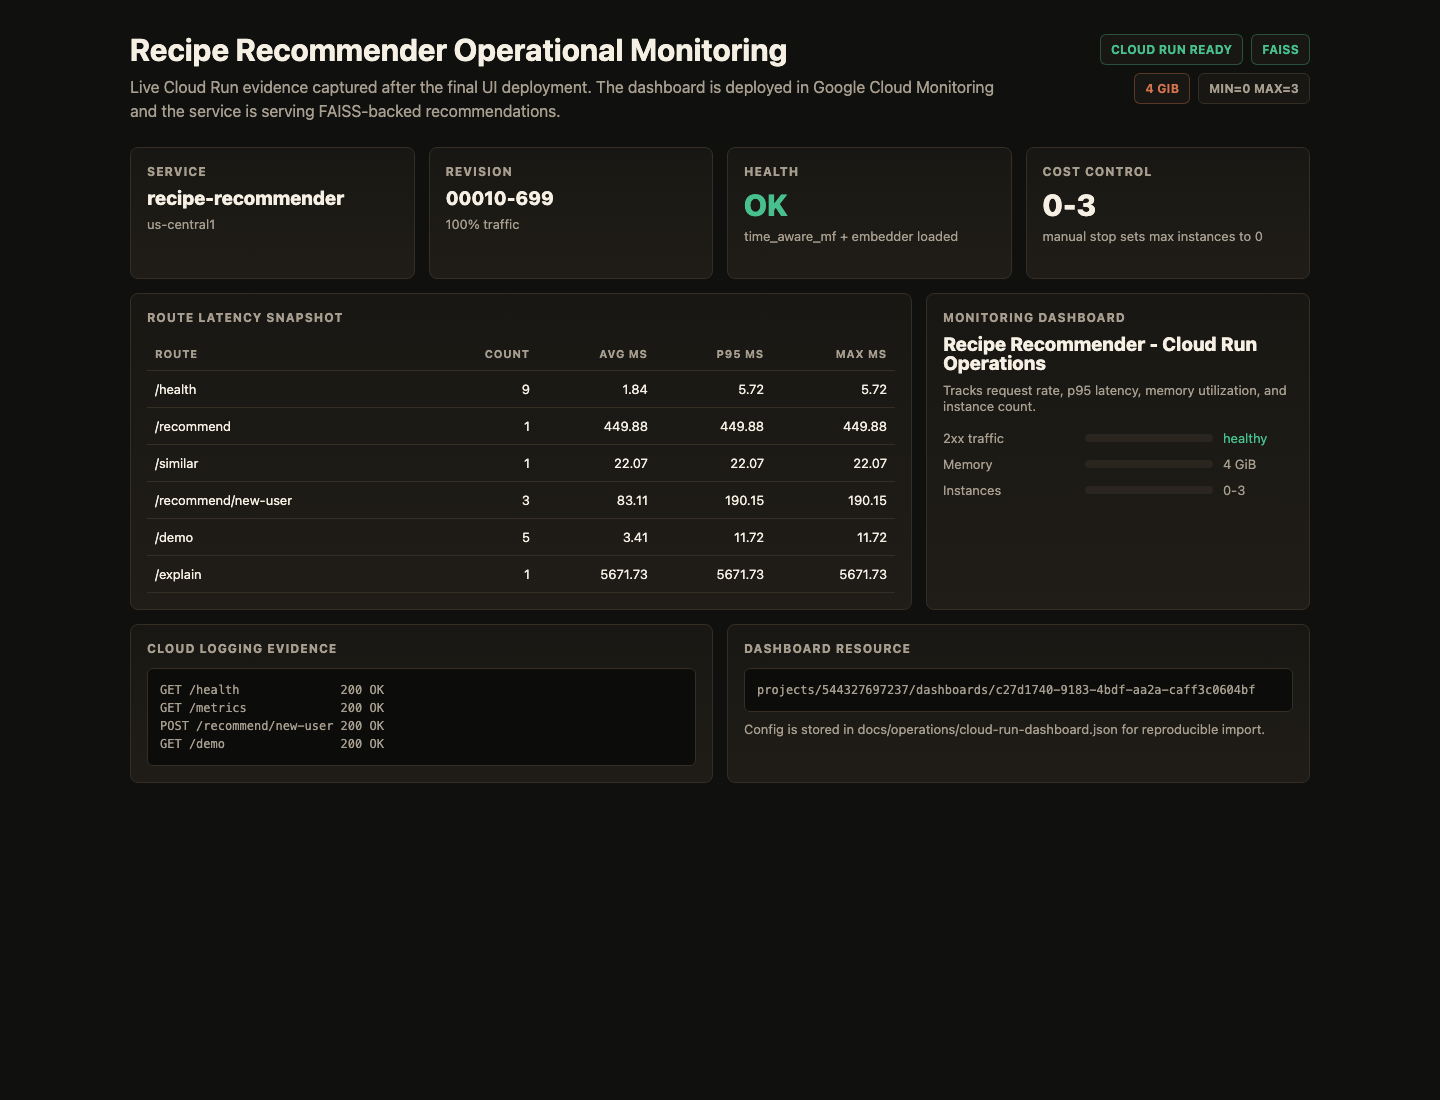
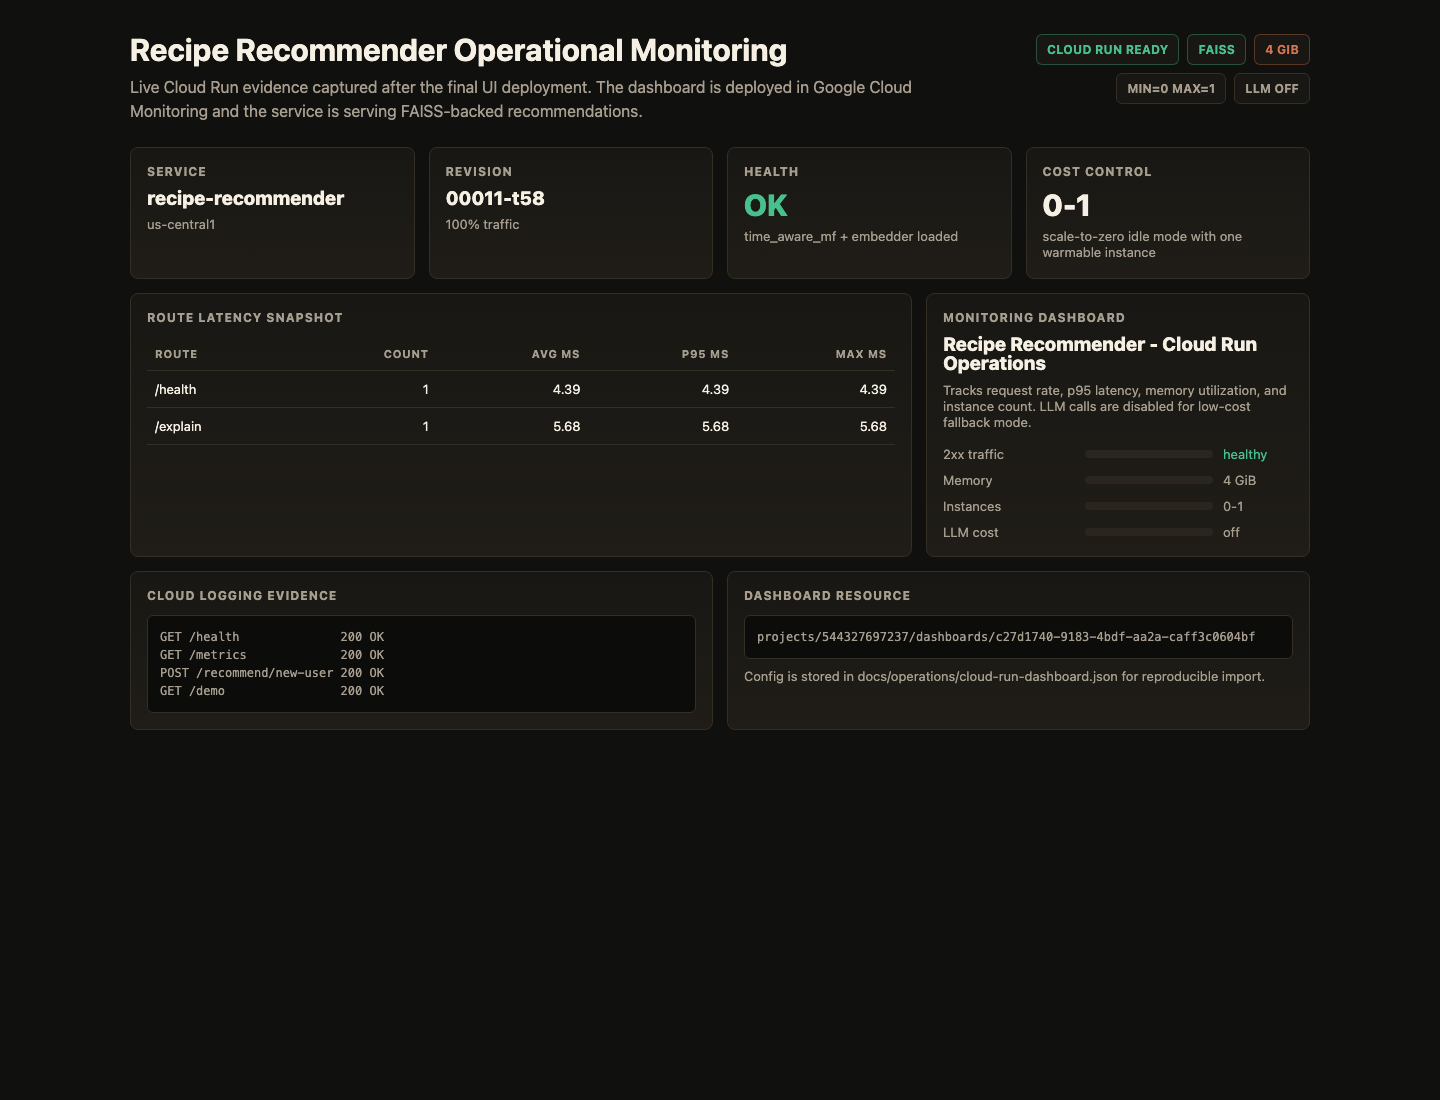
chore: switch public demo to low-cost fallback mode [skip ci]

diff --git a/docs/operations/monitoring-evidence.html b/docs/operations/monitoring-evidence.html
@@ -97,7 +97,8 @@
         <span class="badge green">Cloud Run Ready</span>
         <span class="badge green">FAISS</span>
         <span class="badge orange">4 GiB</span>
-        <span class="badge">min=0 max=3</span>
+        <span class="badge">min=0 max=1</span>
+        <span class="badge">LLM off</span>
       </div>
     </header>
 
@@ -109,7 +110,7 @@
       </article>
       <article class="card span-3">
         <div class="label">Revision</div>
-        <div class="value small">00010-699</div>
+        <div class="value small">00011-t58</div>
         <div class="sub">100% traffic</div>
       </article>
       <article class="card span-3">
@@ -119,8 +120,8 @@
       </article>
       <article class="card span-3">
         <div class="label">Cost Control</div>
-        <div class="value">0-3</div>
-        <div class="sub">manual stop sets max instances to 0</div>
+        <div class="value">0-1</div>
+        <div class="sub">scale-to-zero idle mode with one warmable instance</div>
       </article>
 
       <article class="card span-8">
@@ -130,12 +131,8 @@
             <tr><th>Route</th><th>Count</th><th>Avg ms</th><th>p95 ms</th><th>Max ms</th></tr>
           </thead>
           <tbody>
-            <tr><td>/health</td><td>9</td><td>1.84</td><td>5.72</td><td>5.72</td></tr>
-            <tr><td>/recommend</td><td>1</td><td>449.88</td><td>449.88</td><td>449.88</td></tr>
-            <tr><td>/similar</td><td>1</td><td>22.07</td><td>22.07</td><td>22.07</td></tr>
-            <tr><td>/recommend/new-user</td><td>3</td><td>83.11</td><td>190.15</td><td>190.15</td></tr>
-            <tr><td>/demo</td><td>5</td><td>3.41</td><td>11.72</td><td>11.72</td></tr>
-            <tr><td>/explain</td><td>1</td><td>5671.73</td><td>5671.73</td><td>5671.73</td></tr>
+            <tr><td>/health</td><td>1</td><td>4.39</td><td>4.39</td><td>4.39</td></tr>
+            <tr><td>/explain</td><td>1</td><td>5.68</td><td>5.68</td><td>5.68</td></tr>
           </tbody>
         </table>
       </article>
@@ -143,11 +140,12 @@
       <article class="card span-4">
         <div class="label">Monitoring Dashboard</div>
         <div class="value small">Recipe Recommender - Cloud Run Operations</div>
-        <div class="sub">Tracks request rate, p95 latency, memory utilization, and instance count.</div>
+        <div class="sub">Tracks request rate, p95 latency, memory utilization, and instance count. LLM calls are disabled for low-cost fallback mode.</div>
         <div class="bars">
           <div class="bar-row"><span>2xx traffic</span><span class="bar"><span class="fill" style="width: 96%"></span></span><span class="ok">healthy</span></div>
           <div class="bar-row"><span>Memory</span><span class="bar"><span class="fill" style="width: 62%"></span></span><span>4 GiB</span></div>
-          <div class="bar-row"><span>Instances</span><span class="bar"><span class="fill" style="width: 33%"></span></span><span>0-3</span></div>
+          <div class="bar-row"><span>Instances</span><span class="bar"><span class="fill" style="width: 33%"></span></span><span>0-1</span></div>
+          <div class="bar-row"><span>LLM cost</span><span class="bar"><span class="fill" style="width: 0%"></span></span><span>off</span></div>
         </div>
       </article>
 

diff --git a/README.md b/README.md
@@ -88,9 +88,10 @@ The demo is a single-page app served by FastAPI. It exposes four operational pat
 - **Similar Recipes**: calls `/similar` to search the recipe embedding index.
 - **Metrics**: calls `/metrics` and displays route counts plus average, p95, and max latency.
 
-Recipe cards can call `/explain`. In the deployed service, xAI is enabled through Google
-Secret Manager and Cloud Run `--set-secrets`; if the provider is unavailable, the backend
-falls back to deterministic rule-based explanations. No API key is present in frontend code.
+Recipe cards can call `/explain`. The endpoint can use xAI through Google Secret Manager
+and Cloud Run `--set-secrets`, but the public demo currently keeps
+`ENABLE_LLM_EXPLANATIONS=false` for cost control and uses deterministic rule-based
+fallback explanations. No API key is present in frontend code.
 
 ## System Flow
 
@@ -118,7 +119,7 @@ LLM explanation, latency monitoring, and cost controls.
 - **Corrected split before optimization**: an initial item-CF benchmark failed because the split had no recipe overlap. The project uses a random split for warm-start model comparison and a temporal split to quantify deployment drift and cold-start risk.
 - **TimeAwareMF over Hybrid MF in production**: the hybrid model is implemented and evaluated, but it underperformed TimeAwareMF on RMSE, NDCG@10, and Recall@10. The deployed model stays simpler because it is empirically stronger.
 - **FAISS over an external vector database**: local FAISS gives real vector search behavior for `/similar` and cold-start recommendations without adding vendor infrastructure. The code falls back to brute-force search where FAISS wheels are unavailable.
-- **LLM explanations behind the API**: API keys never touch frontend code. `/explain` uses xAI through Cloud Run Secret Manager when enabled and falls back to deterministic explanations when the provider is unavailable.
+- **LLM explanations behind the API**: API keys never touch frontend code. `/explain` can use xAI through Cloud Run Secret Manager when enabled and falls back to deterministic explanations for the low-cost public demo.
 - **Lightweight metrics plus Cloud Monitoring**: `/metrics` is intentionally in-process for smoke tests and demos; durable operational evidence is handled by Cloud Logging and a versioned Cloud Monitoring dashboard.
 - **Cloud Run sizing and cost controls**: the service uses 4 GiB because the MF model, recipe metadata, embedder, and FAISS index can exceed 2 GiB. `min-instances=0` and the manual stop workflow keep costs bounded.
 
@@ -304,7 +305,7 @@ GitHub Actions workflows live in `.github/workflows/`:
 
 - `ci.yml`: runs package imports, pytest, and Docker image build checks on pull requests and pushes to `main`.
 - `deploy.yml`: builds the runtime image, pushes it to Artifact Registry, deploys to Cloud Run on pushes to `main`, then smoke-tests `/health`, `/recommend`, `/recommend/new-user`, `/similar`, and `/metrics`.
-- `cloud-control.yml`: manual `status`, `start`, and `stop` controls for the Cloud Run service. `stop` sets max instances to `0`; `start` restores max instances to `RUN_MAX_INSTANCES` or `3`.
+- `cloud-control.yml`: manual `status`, `start`, and `stop` controls for the Cloud Run service. `stop` sets max instances to `0`; `start` restores max instances to `RUN_MAX_INSTANCES` or `1`.
 
 Cloud Run loads both MF and embedder artifacts from GCS at startup when local mounted
 files are absent. `/health` reports `time_aware_mf` and `embedder` when both artifacts

diff --git a/docs/operations/monitoring-evidence.md b/docs/operations/monitoring-evidence.md
@@ -22,12 +22,14 @@ The dashboard tracks:
 ```text
 URL: https://recipe-recommender-tyhw3omfqq-uc.a.run.app
 Ready: True
-Revision: recipe-recommender-00010-699
+Revision: recipe-recommender-00011-t58
 Traffic: 100% latest revision
 CPU: 1
 Memory: 4Gi
 Container concurrency: 80
-Max instances: 3
+Min instances: 0
+Max instances: 1
+LLM explanations: disabled; rule-based fallback active
 ```
 
 ## Live Health Check
@@ -50,13 +52,8 @@ so it is runtime evidence rather than a durable analytics store.
   "model": "time_aware_mf",
   "vector_store": "faiss",
   "latency": {
-    "/health": {"count": 9, "avg_ms": 1.84, "p95_ms": 5.72, "max_ms": 5.72},
-    "/recommend": {"count": 1, "avg_ms": 449.88, "p95_ms": 449.88, "max_ms": 449.88},
-    "/similar": {"count": 1, "avg_ms": 22.07, "p95_ms": 22.07, "max_ms": 22.07},
-    "/recommend/new-user": {"count": 3, "avg_ms": 83.11, "p95_ms": 190.15, "max_ms": 190.15},
-    "/metrics": {"count": 5, "avg_ms": 1.0, "p95_ms": 1.28, "max_ms": 1.28},
-    "/demo": {"count": 5, "avg_ms": 3.41, "p95_ms": 11.72, "max_ms": 11.72},
-    "/explain": {"count": 1, "avg_ms": 5671.73, "p95_ms": 5671.73, "max_ms": 5671.73}
+    "/health": {"count": 1, "avg_ms": 4.39, "p95_ms": 4.39, "max_ms": 4.39},
+    "/explain": {"count": 1, "avg_ms": 5.68, "p95_ms": 5.68, "max_ms": 5.68}
   }
 }
 ```

diff --git a/docs/deployment.md b/docs/deployment.md
@@ -91,7 +91,7 @@ Use the `Cloud Run Control` GitHub Actions workflow for manual operations:
 
 - `status`: prints service URL, traffic split, revision status, memory, and autoscaling annotations.
 - `stop`: sets `min-instances=0` and `max-instances=0`.
-- `start`: sets `min-instances=0` and `max-instances` back to `RUN_MAX_INSTANCES` or `3`.
+- `start`: sets `min-instances=0` and `max-instances` back to `RUN_MAX_INSTANCES` or `1`.
 
 The equivalent local commands are:
 
@@ -106,5 +106,5 @@ gcloud run services update recipe-recommender \
   --project PROJECT_ID \
   --region us-central1 \
   --min-instances 0 \
-  --max-instances 3
+  --max-instances 1
 ```

diff --git a/docs/monitoring.md b/docs/monitoring.md
@@ -118,7 +118,7 @@ Manual actions:
 
 - `status`: print URL, traffic, memory, and current revision status.
 - `stop`: set `min-instances=0` and `max-instances=0`.
-- `start`: set `min-instances=0` and `max-instances=RUN_MAX_INSTANCES` or `3`.
+- `start`: set `min-instances=0` and `max-instances=RUN_MAX_INSTANCES` or `1`.
 
 ## Operational Alerts Worth Adding
 
